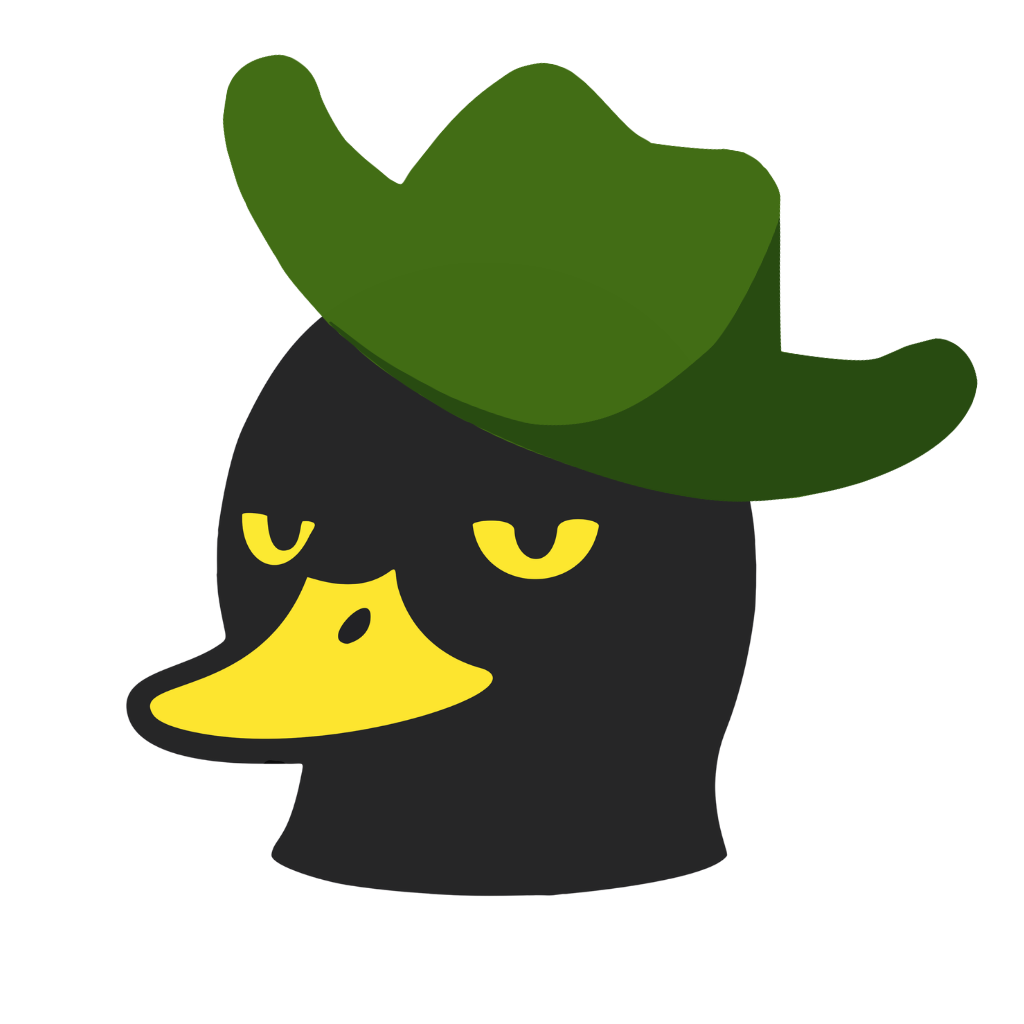
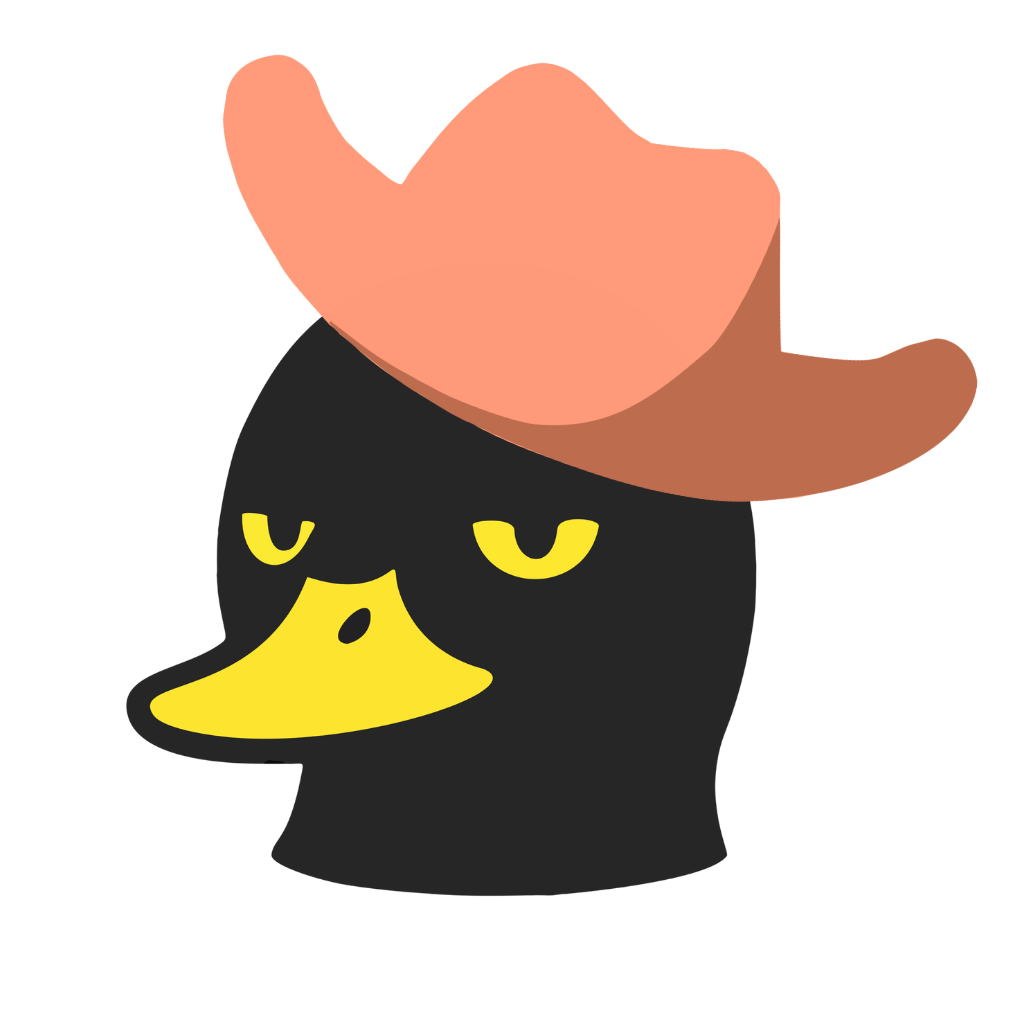
Dashboard: more partner settings and a reactions field in the embed editor (#61)
* Dashboard: more partner settings (cooldown as a time, NSFW, blocked words, welcome channel, 2 new replies) and a reactions field in the embed editor

* Swap the mascot icon for the peach hat duck

The site icon (favicon, nav, footer, previews) now matches the peach
accent. The three ducks on the home page keep their own images.

---------

Changed region(s): [[0.2188, 0.0312, 0.9688, 0.5]]

diff --git a/src/utils/embedSchema.ts b/src/utils/embedSchema.ts
@@ -10,7 +10,7 @@ export interface LinkButton { label: string; url: string; emoji: string; disable
 export type CardPlacement = 'default' | 'embed' | 'attachment';
 /** An image card (made in the Image cards editor) sent with the message. */
 export interface CardRef { name: string; placement: CardPlacement }
-export interface TemplateData { content: string; embeds: EmbedData[]; buttons: LinkButton[][]; card?: CardRef; v2?: V2Doc }
+export interface TemplateData { content: string; embeds: EmbedData[]; buttons: LinkButton[][]; card?: CardRef; v2?: V2Doc; reactions?: string[] }
 
 // A Components V2 message: containers, text, pictures, sections, dividers and rows of link buttons. It follows Discord's
 // own component JSON, so the bot and the Embed Builder read it as it is. It has no message text and no embeds.
@@ -51,12 +51,23 @@ function readCard(raw: any): CardRef | undefined {
   return { name, placement: raw.placement === 'embed' || raw.placement === 'attachment' ? raw.placement : 'default' };
 }
 
+export const MAX_REACTIONS = 5;
+
+/** The emojis a message is sent with (up to five): text without spaces, such as 🌸 or <:name:123>. */
+export function readReactions(raw: unknown): string[] {
+  if (!Array.isArray(raw)) return [];
+  const clean = raw.map((item) => String(item ?? '').trim()).filter((item) => item && item.length <= 64 && !/\s/.test(item));
+  return [...new Set(clean)].slice(0, MAX_REACTIONS);
+}
+
 /** Reads either the dashboard's own {content, embeds, buttons} shape or the older /embed
  * command's flat single-embed shape, so nothing saved before this builder existed breaks. */
 export function normalizeTemplateData(raw: any): TemplateData {
-  if (raw && typeof raw === 'object' && Array.isArray(raw.v2?.components)) return { content: '', embeds: [], buttons: [], v2: cleanV2(raw.v2) };
+  const reactions = readReactions(raw?.reactions);
+  const withReactions = (data: TemplateData): TemplateData => (reactions.length ? { ...data, reactions } : data);
+  if (raw && typeof raw === 'object' && Array.isArray(raw.v2?.components)) return withReactions({ content: '', embeds: [], buttons: [], v2: cleanV2(raw.v2) });
   const card = readCard(raw?.card);
-  const withCard = (data: TemplateData): TemplateData => (card ? { ...data, card } : data);
+  const withCard = (data: TemplateData): TemplateData => withReactions(card ? { ...data, card } : data);
   if (raw && Array.isArray(raw.embeds)) {
     return withCard({
       content: raw.content ?? '',
@@ -90,7 +101,8 @@ export type TemplateCheck = { ok: true; data: TemplateData } | { ok: false; erro
  * Rejects it only when the whole message would be too large for Discord to accept. */
 export function validateTemplate(raw: unknown): TemplateCheck {
   const source = normalizeTemplateData(raw);
-  if (source.v2) return { ok: true, data: { content: '', embeds: [], buttons: [], v2: source.v2 } };
+  const reactions = readReactions(source.reactions);
+  if (source.v2) return { ok: true, data: { content: '', embeds: [], buttons: [], v2: source.v2, ...(reactions.length ? { reactions } : {}) } };
   const data: TemplateData = {
     content: trim(source.content, EMBED_LIMITS.content),
     embeds: source.embeds.slice(0, EMBED_LIMITS.embeds).map((e) => ({
@@ -109,6 +121,7 @@ export function validateTemplate(raw: unknown): TemplateCheck {
       label: trim(b.label, EMBED_LIMITS.buttonLabel), url: cleanUrl(b.url), emoji: trim(b.emoji, 8), disabled: Boolean(b.disabled),
     }))).filter((row) => row.length > 0),
     ...(source.card ? { card: source.card } : {}),
+    ...(reactions.length ? { reactions } : {}),
   };
   const total = data.content.length + data.embeds.reduce((sum, e) => sum + e.title.length + e.description.length + e.author.name.length + e.footer.text.length + e.fields.reduce((s, f) => s + f.name.length + f.value.length, 0), 0);
   if (total > EMBED_LIMITS.totalChars) return { ok: false, error: `This message is ${total} characters long, Discord accepts at most ${EMBED_LIMITS.totalChars} across the text and embeds.` };

diff --git a/src/i18n/dash-es.ts b/src/i18n/dash-es.ts
@@ -1805,5 +1805,17 @@ export const dashEs: Record<string, string> = {
   "Reviews and profiles": "Reseñas y perfiles",
   "Free servers can have {a}, Premium 25.": "Un servidor Free puede tener {a}, Premium 25.",
   "Free servers can have {a}, Premium 100.": "Un servidor Free puede tener {a}, Premium 100.",
+  "Up to 5 emojis, separated by spaces. Petto adds them to the message when it sends it. It is the same as writing {reactreply:emoji} for each one.": "Hasta 5 emojis, separados por espacios. Petto los añade al mensaje cuando lo envía. Es lo mismo que escribir {reactreply:emoji} por cada uno.",
+  "Cooldown": "Cooldown",
+  "0 means no requirement. The cooldown is how long before the same server can partner again, written like 3d 4h, 12h or 30m. Empty is no cooldown.": "0 significa sin requisito. El cooldown es el tiempo antes de que el mismo servidor pueda hacer partner otra vez, escrito como 3d 4h, 12h o 30m. Vacío es sin cooldown.",
+  "Refuse servers that Discord marks as NSFW": "Rechazar servidores que Discord marca como NSFW",
+  "Blocked words": "Palabras bloqueadas",
+  "Servers with one of these words in their name or description are refused. Separated by commas, up to 10.": "Se rechazan los servidores con una de estas palabras en su nombre o descripción. Separadas por comas, hasta 10.",
+  "Welcome channel": "Canal de bienvenida",
+  "Where a new Partner Manager is welcomed when they are given the role. Empty welcomes only with the command.": "Dónde se da la bienvenida a un nuevo Partner Manager cuando recibe el rol. Vacío solo da la bienvenida con el comando.",
+  "NSFW server": "Servidor NSFW",
+  "Blocked keyword": "Palabra bloqueada",
+  "The cooldown is written like 3d 4h, 12h or 30m, up to a year. The one that was saved stays.": "El cooldown se escribe como 3d 4h, 12h o 30m, hasta un año. Se queda el que estaba guardado.",
+  "Each reply can be a text or one of your saved embeds. Empty uses the default. Variables: {partner.name}, {partner.members}, {partner.manager}, {partner.count_week}, {partner.count_total}, {partner.rank_week}, {partner.top_week}, {partner.server_week} and the usual ones like {user.mention}.": "Cada respuesta puede ser un texto o uno de tus embeds guardados. Vacío usa la predeterminada. Variables: {partner.name}, {partner.members}, {partner.manager}, {partner.count_week}, {partner.count_total}, {partner.rank_week}, {partner.top_week}, {partner.server_week} y las de siempre como {user.mention}.",
   "Accept the purchase and refund terms before paying. Turn on JavaScript and press Choose plan again.": "Acepta los términos de compra y reembolso antes de pagar. Activa JavaScript y pulsa Elegir plan otra vez.",
 };

diff --git a/src/i18n/dash-pt.ts b/src/i18n/dash-pt.ts
@@ -1805,5 +1805,17 @@ export const dashPt: Record<string, string> = {
   "Reviews and profiles": "Avaliações e perfis",
   "Free servers can have {a}, Premium 25.": "Um servidor Free pode ter {a}, Premium 25.",
   "Free servers can have {a}, Premium 100.": "Um servidor Free pode ter {a}, Premium 100.",
+  "Up to 5 emojis, separated by spaces. Petto adds them to the message when it sends it. It is the same as writing {reactreply:emoji} for each one.": "Até 5 emojis, separados por espaços. O Petto os adiciona à mensagem quando a envia. É o mesmo que escrever {reactreply:emoji} para cada um.",
+  "Cooldown": "Cooldown",
+  "0 means no requirement. The cooldown is how long before the same server can partner again, written like 3d 4h, 12h or 30m. Empty is no cooldown.": "0 significa sem requisito. O cooldown é o tempo até o mesmo servidor poder fazer parceria de novo, escrito como 3d 4h, 12h ou 30m. Vazio é sem cooldown.",
+  "Refuse servers that Discord marks as NSFW": "Recusar servidores que o Discord marca como NSFW",
+  "Blocked words": "Palavras bloqueadas",
+  "Servers with one of these words in their name or description are refused. Separated by commas, up to 10.": "Servidores com uma destas palavras no nome ou na descrição são recusados. Separadas por vírgulas, até 10.",
+  "Welcome channel": "Canal de boas-vindas",
+  "Where a new Partner Manager is welcomed when they are given the role. Empty welcomes only with the command.": "Onde um novo Partner Manager recebe boas-vindas quando ganha o cargo. Vazio só dá boas-vindas com o comando.",
+  "NSFW server": "Servidor NSFW",
+  "Blocked keyword": "Palavra bloqueada",
+  "The cooldown is written like 3d 4h, 12h or 30m, up to a year. The one that was saved stays.": "O cooldown é escrito como 3d 4h, 12h ou 30m, até um ano. O que estava salvo continua.",
+  "Each reply can be a text or one of your saved embeds. Empty uses the default. Variables: {partner.name}, {partner.members}, {partner.manager}, {partner.count_week}, {partner.count_total}, {partner.rank_week}, {partner.top_week}, {partner.server_week} and the usual ones like {user.mention}.": "Cada resposta pode ser um texto ou um dos seus embeds salvos. Vazio usa a padrão. Variáveis: {partner.name}, {partner.members}, {partner.manager}, {partner.count_week}, {partner.count_total}, {partner.rank_week}, {partner.top_week}, {partner.server_week} e as de sempre como {user.mention}.",
   "Accept the purchase and refund terms before paying. Turn on JavaScript and press Choose plan again.": "Aceite os termos de compra e reembolso antes de pagar. Ative o JavaScript e clique em Escolher plano de novo.",
 };

diff --git a/src/utils/variableSamples.ts b/src/utils/variableSamples.ts
@@ -44,6 +44,13 @@ export function tokenValues(ctx: TokenContext): Record<string, TokenValue> {
     'quest.task': { text: 'Watch a video' }, 'quest.task_minutes': { text: '2' }, 'quest.tasks': { text: 'Watch a video (2 min)' }, 'quest.platforms': { text: 'Desktop, Mobile' },
     'quest.starts': { text: '1 day ago' }, 'quest.starts_at': { text: 'Oct 1, 2026 5:00 PM' }, 'quest.expires': { text: 'in 5 days' }, 'quest.expires_at': { text: 'Oct 7, 2026 5:00 PM' },
     'quest.limits': { text: 'None' }, 'quest.age_gate': { text: '' }, 'quest.status': { text: 'New quest' }, 'quest.source': { text: 'discordquest.com' },
+    'partner.name': { text: 'Cozy Club' }, 'partner.id': { text: '1100000000000000001' }, 'partner.members': { text: '1,240' }, 'partner.invite': { text: 'https://discord.gg/cozy' },
+    'partner.manager': mention, 'partner.manager_name': name, 'partner.count_day': { text: '1' }, 'partner.count_week': { text: '4' }, 'partner.count_total': { text: '21' },
+    'partner.min_members': { text: '100' }, 'partner.min_age_days': { text: '14' }, 'partner.cooldown_days': { text: '7' }, 'partner.cooldown_ends': { text: 'in 3 days' }, 'partner.cooldown': { text: '3d 4h' },
+    'partner.rank_week': { text: '2' }, 'partner.rank_total': { text: '3' }, 'partner.top_week': mention, 'partner.top_week_count': { text: '6' }, 'partner.top_total': mention, 'partner.top_total_count': { text: '48' },
+    'partner.server_day': { text: '2' }, 'partner.server_week': { text: '9' }, 'partner.server_total': { text: '87' },
+    'request.number': { text: '12' }, 'request.text': { text: 'A banner for my server' }, 'request.link': { text: 'https://discord.com/channels/…' }, 'request.channel': { text: '#requests', mention: true }, 'request.status': { text: 'Open' },
+    'honeypot.action': { text: 'a softban' }, 'honeypot.count': { text: '17' }, 'honeypot.channel': { text: '#do-not-write', mention: true },
     'channel.name': { text: 'general' }, channel: { text: '#general' },
     date: { text: 'Today' }, time: { text: '12:00 PM' },
     server_id: { text: '707307527846625280' }, 'guild.id': { text: '707307527846625280' }, server_prefix: { text: '!' },

diff --git a/src/react/embeds/EmbedBuilderApp.tsx b/src/react/embeds/EmbedBuilderApp.tsx
@@ -6,7 +6,7 @@ import V2Editor from '../v2/V2Editor';
 import V2Preview from '../v2/V2Preview';
 import VariablesPanel from './VariablesPanel';
 import EmbedColorPicker from './EmbedColorPicker';
-import { type EmbedData, type LinkButton, type TemplateData, emptyEmbed, emptyButton, emptyTemplate, emptyV2, normalizeTemplateData, encodeShareCode, decodeShareCode } from './types';
+import { type EmbedData, type LinkButton, type TemplateData, emptyEmbed, emptyButton, emptyTemplate, emptyV2, normalizeTemplateData, encodeShareCode, decodeShareCode, readReactions } from './types';
 import { questStarterV2 } from '../../utils/questTemplate';
 import { t } from './t';
 
@@ -260,6 +260,12 @@ export default function EmbedBuilderApp({ guildId, botName, botIcon, userAvatarU
 
             <div className="ebr-form-col">
               <VariablesPanel groups={variableGroups} />
+              <div className="ebr-field">
+                <div className="ebr-field-head"><label>{t('Reactions')}</label></div>
+                <input type="text" className="ebr-reactions-input" value={(data.reactions ?? []).join(' ')} maxLength={400} placeholder="🌸 🎀 <:name:123456789>"
+                  onChange={(ev) => { const list = readReactions(ev.target.value.split(/\s+/)); const next = { ...data }; if (list.length) next.reactions = list; else delete next.reactions; setData(next); setDirty(true); }} />
+                <span className="ebr-hint">{t('Up to 5 emojis, separated by spaces. Petto adds them to the message when it sends it. It is the same as writing {reactreply:emoji} for each one.')}</span>
+              </div>
               {data.v2 ? (
                 <>
                   <p className="v2e-intro">{t('A Components V2 message: containers with text, pictures, sections and link buttons. It has no message text and no embeds.')}</p>

diff --git a/src/utils/span.ts b/src/utils/span.ts
@@ -1,0 +1,25 @@
+// A time written as `3d 4h` (weeks, days, hours, minutes), the way the bot reads the cooldown of partners.
+const UNITS: Record<string, number> = { w: 10_080, d: 1_440, h: 60, m: 1 };
+export const MAX_SPAN_MINUTES = 365 * 24 * 60;
+
+/** Minutes of `3d 4h`; 0 for `0`, `none` or `off`; null when it is not a valid span or is over a year. */
+export function parseSpan(text: string): number | null {
+  const value = text.trim().toLowerCase();
+  if (/^(0|none|off|no)$/.test(value)) return 0;
+  if (!value || !/^(?:\d+\s*[wdhm]\s*)+$/.test(value)) return null;
+  let minutes = 0;
+  for (const match of value.matchAll(/(\d+)\s*([wdhm])/g)) minutes += Number(match[1]) * UNITS[match[2]];
+  return minutes > 0 && minutes <= MAX_SPAN_MINUTES ? minutes : null;
+}
+
+/** Minutes as `3d 4h`, or an empty text for none. */
+export function formatSpan(minutes: number): string {
+  if (!minutes) return '';
+  const parts: string[] = [];
+  let left = minutes;
+  for (const [unit, size] of [['w', 10_080], ['d', 1_440], ['h', 60], ['m', 1]] as const) {
+    const count = Math.floor(left / size);
+    if (count) { parts.push(`${count}${unit}`); left -= count * size; }
+  }
+  return parts.join(' ');
+}

diff --git a/src/react/embeds/embeds.css b/src/react/embeds/embeds.css
@@ -200,3 +200,6 @@ div.ebr-embed-title { color: #f2f3f5; }
 .v2e-section-text .v2e-textbox { flex: 1; min-width: 0; }
 .v2e-add { display: flex; flex-wrap: wrap; gap: 6px; }
 .v2e-note { font-size: 11.5px; color: var(--text-dim); margin: 0; line-height: 1.4; }
+
+.ebr-hint { font-size: 11.5px; line-height: 1.4; color: var(--text-dim); }
+.ebr-reactions-input { width: 100%; box-sizing: border-box; }
